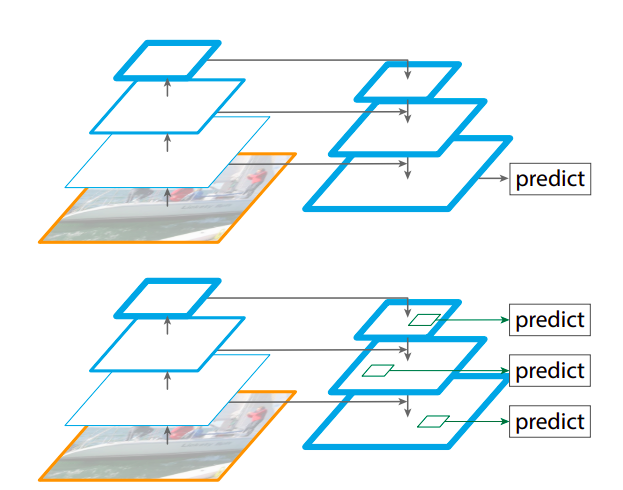
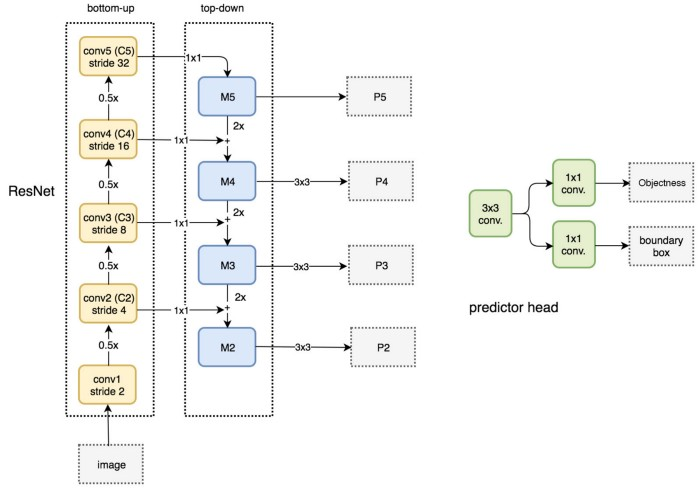
modified images for yolo and fpn; adding more content

Changed region(s): [[0.0, 0.0, 1.0, 1.0]]

diff --git a/_posts/2021-04-13-object-detection-brief-study.md b/_posts/2021-04-13-object-detection-brief-study.md
@@ -5,63 +5,69 @@ date:   2021-04-14
 image:  images/blog5/cover.jpg
 tags:  AI object detection rcnn yolo anchor boxes fcn cnn deep learning
 ---
-*On the cover: Yolov5 applied on an Avengers endgame poster; also Rocket wouldn't like being called a dog huehue
+*On the cover: YOLO v5 applied on an Avengers Endgame poster; oh also, Rocket wouldn't like being called a 'dog' huehue*
 
-Object detection is one of the classical problems in deep learning for computer vision next to image classification. The goal of object detection is to localize the objects present in an image in addition to classifying it. Typically, one predicts **bounding boxes** for localization and **confidence scores** for classification of all the objects present in the image. If the outputs are **segmentations** instead of bounding boxes, then it's called an instance segmentation task. 
+Object detection is one of the classical problems in deep learning for computer vision only next to image classification. The goal of object detection is to locate the objects present in an image, in addition to classifying them. This includes predicting **bounding boxes** for localization and **probability scores** for classification of all the objects present in the image. If the outputs are **segmentation masks** instead of bounding boxes, then it's called an instance segmentation task. 
 
-There is a lot of research done in this area and it can be overwhelming to remember all the details. If only I had a dollar for everytime I forgot what YOLO or Faster RCNN does internally and had to read the paper again. Hence, this blog post strives to quickly summarize the popular architectures that gave shape to this field. This blog post is not a tutorial, rather a post to jog your memory of these architectures. Relevant links are provided for reference. Most of these architectures are tested on the [PASCAL VOC dataset (2007, 2012)](http://host.robots.ox.ac.uk/pascal/VOC/#:~:text=The%20PASCAL%20VOC%20project%3A,and%20comparison%20of%20different%20methods) and recently on [COCO dataset](https://cocodataset.org/#detection-2020) as well 
+There is a lot of research done in this area and it can be overwhelming to remember all the important details. If only I had a dollar for everytime I forgot what YOLO or Faster R-CNN does and had to read the paper again :3 Hence, this blog post strives to quickly summarize the popular architectures that gave shape to this field. This article is not a tutorial, rather aummary to jog your memory of the following models: R-CNN, Fast R-CNN, Faster R-CNN, YOLO v1, v2, v3, RetinaNet, Mask R-CNN and FPN. There are more recent models such as EfficientDet and MonbileNet variants which I'll try to cover in the future versions of this article. Relevant links are provided for reference and the images for model architectures are taken from the respective papers. Most of these architectures are tested on the [PASCAL VOC dataset (2007, 2012)](http://host.robots.ox.ac.uk/pascal/VOC/#:~:text=The%20PASCAL%20VOC%20project%3A,and%20comparison%20of%20different%20methods) and recently on [COCO dataset](https://cocodataset.org/#detection-2020) as well. Popular metrics to evaluate the object detection task is [Average Precision (AP) and mean Average Precision (mAP)](https://medium.com/@yanfengliux/the-confusing-metrics-of-ap-and-map-for-object-detection-3113ba0386ef)
 
-## R-CNN: [paper](https://arxiv.org/pdf/1311.2524.pdf)
+## R-CNN (2013): [paper](https://arxiv.org/pdf/1311.2524.pdf)
 ![alt](/images/blog5/rcnn.png)
 *R-CNN architecture*
-1. Selective search algorithm to propose candidate regions (of ~2000 boxes)
-2. Warp the candidate regions to fixed size
-3. Train a CNN (eg. VGG16) to extract features
-4. Train n SVMs (one for each class) for object classification 
+This is one of the earliest deep learning architectures from Ross Girshick to address the object detection problem
+1. Use [Selective search](https://www.geeksforgeeks.org/selective-search-for-object-detection-r-cnn/) algorithm to propose candidate regions (~2000 boxes)
+2. Warp the candidate regions to a fixed size
+3. Use a CNN model (eg. VGG-16) to extract features from these warped regions
+4. Train C SVMs (one for each class, C classes) for object classification
+5. In addition, bounding box regression is used to adjust the proposal regions (say a region proposal only covers half of a car) 
+6. During inference, use a greedy [non-maximum supression](https://arxiv.org/pdf/1704.04503.pdf) to choose one box prediction from multiple predictions for a single object
 
-## Fast R-CNN: [paper](https://arxiv.org/pdf/1504.08083.pdf)
+## Fast R-CNN (2015): [paper](https://arxiv.org/pdf/1504.08083.pdf)
 ![alt](/images/blog5/fast-rcnn.png)
 *Fast R-CNN architecture*
-1. Use any algorithm to propose candidate regions (of ~2000 boxes)
-2. Produce a conv feature map of the input image using a CNN (eg. VGG net)
-3. Extract projected region proposals on the conv feature map from the reduction ratio (eg. input: 256x256; feature map: 32x32; reduction ratio: 1/8; proposal: 40x16; extracted projection: (40x16)/8 = 5x2 on the feature map)
-4. Use an [RoI pooling](https://stackoverflow.com/questions/43430056/what-is-the-purpose-of-the-roi-layer-in-a-fast-r-cnn) layer on these feature maps to produce a fixed size smaller feature map (7x7 in this paper)
-4. Feed each fixed length feature vector into a sequence of FC layers
-5. Feed the output of FC layers into two sibling layers: softmax layer for object classification (output: prob p<sub>k</sub>) and a class specific bbox regressor (output: offsets t<sub>k</sub><sup>x</sup>, t<sub>k</sub><sup>y</sup>, t<sub>k</sub><sup>h</sup>, t<sub>k</sub><sup>w</sup> for every k)
+Training and inference on an R-CNN takes a long time as each of the 2000 warped regions undergo a forward pass through a CNN without sharing any computations. Thus the main author of R-CNN proposed this improved architecture.
+1. Use an algorithm to propose candidate regions (~2000 boxes)
+2. Produce a conv feature map of the input image using a CNN (eg. VGG-16)
+3. Extract the projections of region proposals on the conv feature map using the reduction ratio (eg. say input is 256x256 and feature map is 32x32, then the reduction ratio is 1/8; say a proposal is 40x16, then the extracted projection is (40x16)/8 = 5x2 on the feature map at the corresponding location)
+4. Use an [RoI pooling](https://stackoverflow.com/questions/43430056/what-is-the-purpose-of-the-roi-layer-in-a-fast-r-cnn) layer on these extracted projections to produce a fixed size smaller feature map (7x7 in this paper)
+4. Feed each of these fixed length feature maps/vectors into a sequence of FC (fully connected) layers
+5. Feed the output of FC layers into two sibling layers: a softmax layer for object classification yeilding C probabilities and a class specific bbox regressor yielding 4C offsets for C classes 
 
 ## Faster R-CNN: [paper](https://arxiv.org/pdf/1506.01497.pdf)
 ![alt](/images/blog5/faster-rcnn.png)
 *Faster R-CNN architecture*
-1. Pass the image into a CNN to extract a feature map (say conv5 of VGG) which is common to two parts of this network: a Region proposal network (RPN) and a Fast R-CNN
-2. The RPN uses a sliding window of fixed size (3x3 in this paper) to extract a 512-d output (conv5 of VGG has 512 as the third dimension) at **each wxh** of the feature map
+Same as Fast R-CNN but the region proposals are now done by a fully convolutional Region Proposal Network (RPN)
+1. Extract a feature map of the input image (say conv5 of VGG) which is common to two parts of this network: RPN and a Fast R-CNN
+2. The RPN uses a sliding window of fixed size (3x3 in this paper) to extract a 512-d output (conv5 of VGG has 512 channels as well) at **each pixel** of the feature map
 ![alt](/images/blog5/RPN.png)
 *RPN architecture*
-3. This is then connected to two sibling FC layers that output objectness scores and bounding box proposals through 9 anchor boxes (a predetermined set of boxes with various dimensions and aspect sizes)
-3. Label all these proposed boxes as positive (iou>0.7), negative (iou<0.3) or ignore (ow) where iou is wrt to the ground truths and train the RPN using SGD
-4. Pass the proposals into a RoI pooling layer and subsequently regress bboxes and predictions like in Fast-RCNN
-5. In the paper RPN and detection networks are trained separately; RPN serves as an attention mechanism
+3. This is then connected to two sibling FC layers that predict k bounding boxes: 2k objectness scores and 4k coordinate offsets of k [anchor boxes](https://towardsdatascience.com/anchor-boxes-the-key-to-quality-object-detection-ddf9d612d4f9) (a predetermined set of boxes with various dimensions and aspect ratios; k=9 in this paper)
+4. For training RPN: the anchors as positive if IOU wrt to a ground truth>0.7 (if this fails, the anchor with the highest IOU is positive), negative if IOU<0.3 or ignore otherwise; a single ground truth can assign multiple positive anchors
+5. Pass these proposals into a Fast R-CNN which has an RoI pooling layer and subsequently regress bboxes and predictions
+6. In the paper, RPN and Fast R-CNN (for detection) are trained separately; RPN serves as an attention mechanism
 
 ## YOLO: [paper](https://arxiv.org/pdf/1506.02640.pdf)
 ![alt](/images/blog5/yolo_explained.png)
-*YOLO data flow*
+*Visualizing YOLO*
 ![alt](/images/blog5/yolo.png)
 *Yolo architecture; YOLO reaches 45 fps (mAP 63.4 on 07 VOC) compared to Faster RCNN which reaches only 7 fps (mAP 73.2 on 07 VOC)*
-1. Single unified end-to-end architecture (Darknet instead of VGG16 as feature extractor) predicting bounding boxes and class scores
-2. Divide the input image into grids of SxS (S=7 in the paper)
+A single unified end-to-end architecture from Joseph Redmon and Ali Farhadi, unlike R-CNN models where the region proposals and predictions are separate. YOLO models are constructed to provide real-time detections and thus compromise on accuracy. However, future versions address this problem. The latest version is [YOLOv5 from Ultralytics](https://github.com/ultralytics/yolov5), but they haven't released a paper yet (as of writing this article) and there are arguments surrounding the name YOLOv5 since the actual authors are not involved in this version.
+1. Use Darknet instead of VGG-16 as feature extractor; also, note the dense FC layers in the architecture that allows only fixed size input images
+2. Divide the input image into an SxS grid (S=7 in the paper)
 3. For each grid, predict B (B=2 in the paper) bounding boxes (each bounding box has 5 predictions: 2 center coordinates (Xc, Yc), 2 dimensions (H,W) and 1 objectness score) and C (C=20 in VOC) class probabilities. Hence the output would be SxSx(5*B + C) tensor, ie., 7x7x30 tensor
-4. The predictions Xc, Yc are assumed to be offset wrt the Grid cell location and H,W are also offset wrt to the size of the image 
+4. The predictions Xc, Yc are assumed to be offset wrt the grid cell location and H, W are also offset wrt to the size of the image 
 
 ## YOLO v2: [paper](https://arxiv.org/pdf/1612.08242.pdf)
 ![alt](/images/blog5/yolov2-bb.png)
-*YOLOv2 dimension priors and offsets*
-YOLO makes a significant number of localization errors. Yolov2 tries to fix this. Similar to YOLO with following changes:
-1. Higher resolution Darknet 19: base model pre-trained at image size of 448x448 instead of 224x224 (during object detection changed to 416 to get odd number of locations in the feature map (13x13) and there is a single center cell)
+*YOLOv2 dimension priors and offsets using sigmoids and exponentials*
+YOLO makes a significant number of localization errors. YOLOv2 tries to fix this. Similar to YOLO with following changes:
+1. Higher resolution Darknet 19: base model pre-trained at image size of 448x448 instead of 224x224 (during object detection change size to 416 to get odd number of locations in the feature map (13x13) for a single cell center)
 2. Add Batch Normalization to all the conv layers 
-3. Remove fc layers in YOLO and use anchors for prediction; cluster anchor box dimensions (using k-means; k=5 in this paper) on VOC and COCO instead of handpicked dimensions (3 aspect ratios and 3 sizes)
-4. At each cell in feature map 13x13, predict 5 (number of clustered anchors) bounding boxes and for each bounding box predict 5 values (2 coordinates, 2 dimensions and 1 confidence)
+3. Remove FC layers in YOLO and use anchors for prediction; cluster anchor box dimensions (using k-means; k=5 in this paper) on VOC and COCO instead of handpicked dimensions of 3 aspect ratios and 3 sizes
+4. At each cell in feature map 13x13 (for a 416x416 input), predict k bounding boxes (for k anchors) and for each bounding box predict 5 values (2 center coordinates, 2 dimensions and 1 confidence)
 5. Direct and stable bounding box location prediction using sigmoids and exponentials (in the image above)
 6. Use a skip connection for fine-grained feature learning; to skip and concatenate a higher dimension layer of size 26x26x512, convert and stack it into 13x13x2048 for concatenation with the last layer 
-7. Multi-scale training of sizes (288, 320, 352, 384, 416, .., 544, .., 608) (multiples of 32 as that is the reduction size) for robustness to different image sizes (although yolov2 is independent of input image size)
+7. Multi-scale training of sizes (288, 320, 352, 384, 416, .., 544, .., 608) (multiples of 32 as that is the reduction size) for robustness to different image sizes (Note: YOLOv2 is independent of input image size, since you are predicting anchors at every cell of the feature map and no FC layers in the feature extraction step)
 
 ## YOLO v3: [paper](https://arxiv.org/pdf/1804.02767.pdf)
 Incremental improvements over YOLOv2:
@@ -76,7 +82,7 @@ Incremental improvements over YOLOv2:
 1. Use Feature Pyramid Network as the backbone to extract rich multi-scale feature pyramids
 2. Then pass this into a classification subnet and a bbox regression subnet (both FCNs without sharing parameters) with anchors to predict boxes and classes
 3. This is a dense prediction where you predict these bboxes for every pixel of the feature map as opposed to sparse predictions in Faster R-CNN 
-4. Use focal loss to account for object to background class imbalance in the data for single level detection
+4. Use [focal loss](https://medium.com/visionwizard/understanding-focal-loss-a-quick-read-b914422913e7) to account for object to background class imbalance in the data for single level detection
 
 ## Mask R-CNN: [paper](https://arxiv.org/pdf/1703.06870.pdf)
 People have started to care more about segmentation masks than bounding boxes :)
@@ -87,20 +93,21 @@ People have started to care more about segmentation masks than bounding boxes :)
 ## Feature Pyramid Network: [paper](https://arxiv.org/pdf/1612.03144.pdf)
 ![alt](/images/blog5/fpn.png)
 *FPN architecture*
-1. Provides a multi-scale rich feature pyramid
+VGG-16 is historically used for feature extraction. These days, FPN is adopted as the defacto feature extractor for obtaining fine-grained/multi-scale features. 
+1. Provides a multi-scale rich feature pyramid; nice explanation [here](https://jonathan-hui.medium.com/understanding-feature-pyramid-networks-for-object-detection-fpn-45b227b9106c)
 2. Contains a bottom-up pathway (normal ResNet feature extraction) and a top-down pathway (constructing pyramids). Top-down pathway is explained as follows for a 5 layer ResNet: (P satnds for pyramid)
 - P5: Use the last layer outputs: C5, channel size N-d, and convert them to 256-d channels using 1x1 convolutions
 - P4: Upsample P5 (x2) with the nearest neighbor upsampling to get the same spatial resolution of C4; convert C4 to 256-d by 1x1 convs; now merge these two: P4 = upsampled(P5) + 1x1convolved(C4)
 - P3, P2 same procedure used for P4
-5. Do a 3x3 convolution in order to avoid aliasing effects after each merge
-6. P1 is not constructed as it is too large for computations https://jonathan-hui.medium.com/understanding-feature-pyramid-networks-for-object-detection-fpn-45b227b9106c
+3. Do a 3x3 convolution in order to avoid aliasing effects after each merge
+4. P1 is not constructed as it is too large for computations 
 
 
-## Question: How do the models handle different image sizes?
-One typically asks this question while studying all these models. This is answered [here](https://ai.stackexchange.com/questions/6274/how-can-i-deal-with-images-of-variable-dimensions-when-doing-image-segmentation) nicely. R-CNN and YOLO cannot handle various image sizes, since they have fully connected layers as part of the feature extraction network. Fast R-CNN (thus also Faster R-CNN; RPN is a FCN) allows different input image sizes beacuse of RoI pooling that outputs fixed size smaller feature maps for further steps. These days most architectures allow variable input image sizes as input because of these modules in them: 
+## Question: How do these models fare with different image sizes?
+This is a typical question that arises while studying these models. This is answered [here](https://ai.stackexchange.com/questions/6274/how-can-i-deal-with-images-of-variable-dimensions-when-doing-image-segmentation) nicely. R-CNN and YOLO cannot handle various image sizes, since they have fully connected layers as part of the feature extraction network. Fast R-CNN (thus also Faster R-CNN; RPN is fully convolutional) allows different input image sizes beacuse of RoI pooling that outputs fixed size smaller feature maps for all the proposals. YOLO v2 onwards the models can process arbitrary inputs sincec they use anchor boxes at each cell. These days most architectures allow variable input image sizes as input because of these techniques in them: 
 ### FCN and SPP:
 ![alt](/images/blog5/spp.png)
 *SPP architecture; 256 is the filter number of the conv5 layer, and conv5 is the last convolutional layer*
 1. Both these techniques allow one to use varied size input images unlike traditional Imagenet models that consume only fixed size inputs 
 2. Fully Convolutional Networks (FCN): Use 1x1 convolutions instead of dense connections and finally use Global pooling at the end
-3. Spatial Pyramid Pooling (SPP): This maintains spatial information in local spatial bins. Effectively, define three bin sizes (1, 4, 16) for pooling the last feature map of arbitrary size (HxWx256 dimensions). For each of these bin sizes pool the feature map. Concatenate these fixed size pooled features then use dense connections at the end.
+3. Spatial Pyramid Pooling (SPP): This maintains spatial information in local spatial bins. This is similar to RoI pooling, in that they produce fixed size outputs. Effectively, define three bin sizes (1, 4, 16) for pooling the last feature map of arbitrary size (HxWx256 dimensions). For each of these bin sizes pool the feature map. Concatenate these fixed size pooled features then use dense connections at the end.
